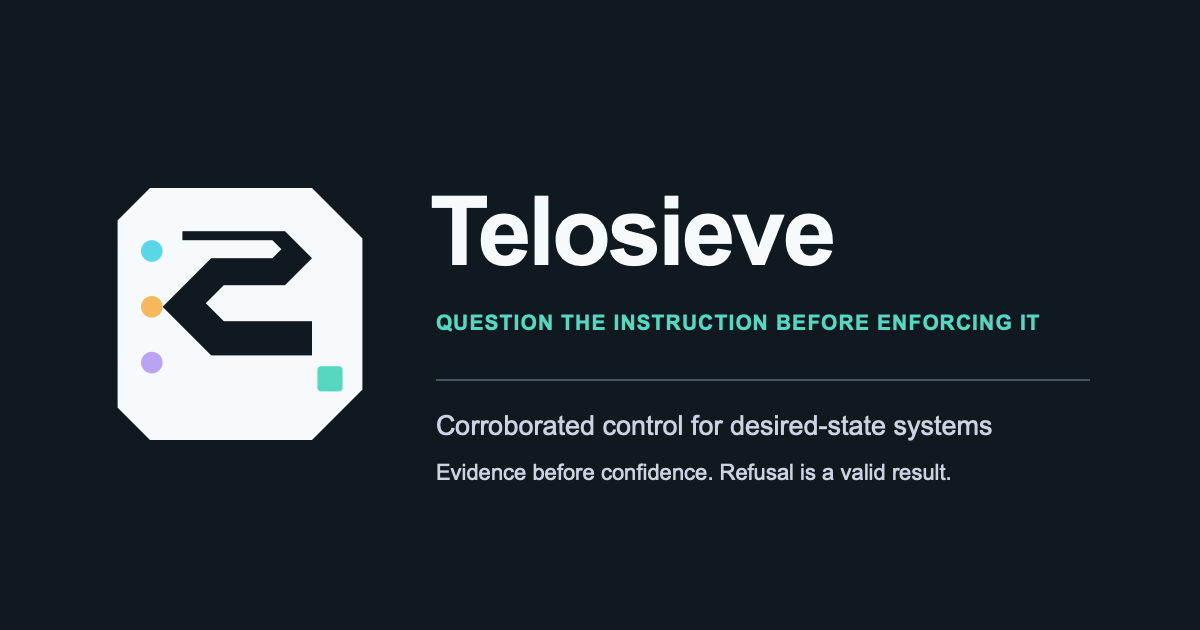
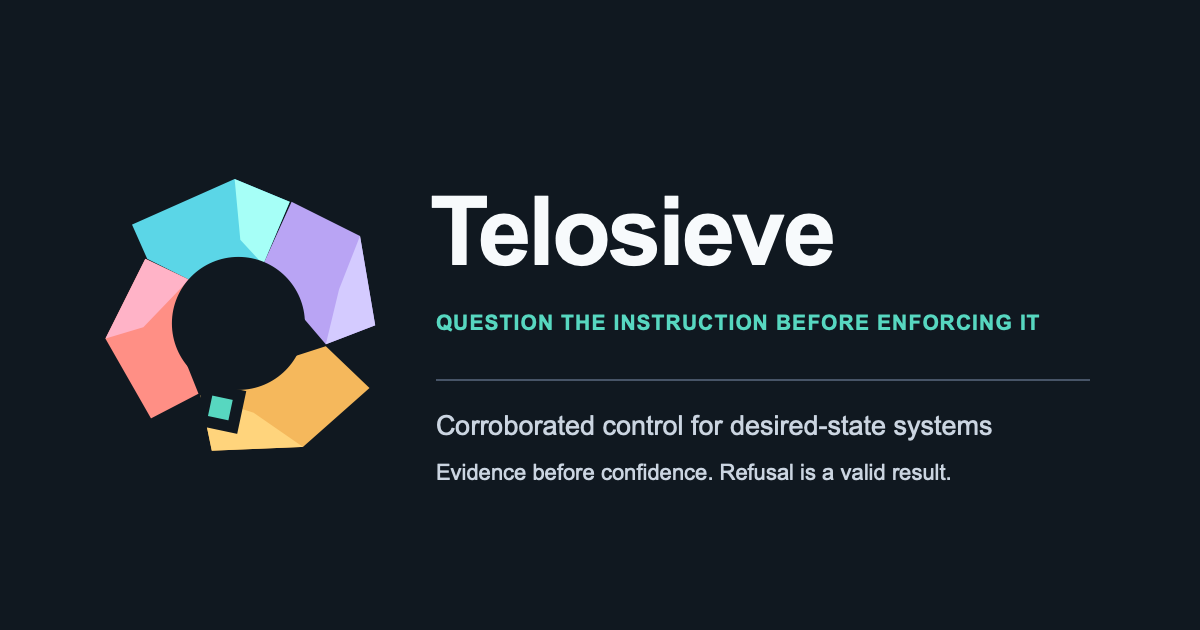
brand: adopt Fractured Oracle identity

Changed region(s): [[0.0925, 0.2714, 0.3083, 0.7238]]

diff --git a/scripts/validate-brand.py b/scripts/validate-brand.py
@@ -20,9 +20,9 @@ REQUIRED = (
     "source/telosieve-stacked.svg",
     "source/telosieve-monochrome.svg",
     "source/telosieve-reversed.svg",
-    "concepts/direction-a-cut-sieve.svg",
-    "concepts/direction-b-questioned-t.svg",
-    "concepts/direction-c-counterfactual-knot.svg",
+    "concepts/direction-a-fractured-oracle.svg",
+    "concepts/direction-b-mobius-question.svg",
+    "concepts/direction-c-counterfactual-crown.svg",
     "tokens/brand.tokens.json",
     "tokens/brand.css",
     "templates/release-card.svg",
@@ -87,7 +87,7 @@ def main() -> int:
         errors.append(result.stdout.strip() or result.stderr.strip() or "brand asset build check failed")
 
     tokens = json.loads((BRAND / "tokens/brand.tokens.json").read_text(encoding="utf-8"))
-    if tokens.get("schema_version") != "telosieve.brand-tokens/v1" or tokens.get("brand_version") != "3.0.0":
+    if tokens.get("schema_version") != "telosieve.brand-tokens/v1" or tokens.get("brand_version") != "4.0.0":
         errors.append("brand token version mismatch")
     expected_states = {"verified", "refused", "warning", "unknown"}
     if not expected_states.issubset(tokens.get("colour", {})):
@@ -95,9 +95,9 @@ def main() -> int:
 
     identity = (ROOT / "docs/BRAND_IDENTITY.md").read_text(encoding="utf-8")
     for phrase in (
-        "Brand version: `3.0.0`",
+        "Brand version: `4.0.0`",
         "Product maturity is not brand identity",
-        "| A: cut-sieve glyph",
+        "| A: Fractured Oracle",
         "Colour never carries state alone",
         "Remaining human gates",
         "not evidence of safety",
@@ -132,7 +132,7 @@ def main() -> int:
     if errors:
         return 1
     print(result.stdout.strip())
-    print(f"brand-validation: passed version=3.0.0 permanent_identity=true maturity_refusals={len(mutation_cases)}")
+    print(f"brand-validation: passed version=4.0.0 permanent_identity=true maturity_refusals={len(mutation_cases)}")
     return 0
 
 

diff --git a/scripts/build-private-bundle.py b/scripts/build-private-bundle.py
@@ -20,9 +20,9 @@ BRAND_FILES = [
     "assets/brand/source/telosieve-stacked.svg",
     "assets/brand/source/telosieve-monochrome.svg",
     "assets/brand/source/telosieve-reversed.svg",
-    "assets/brand/concepts/direction-a-cut-sieve.svg",
-    "assets/brand/concepts/direction-b-questioned-t.svg",
-    "assets/brand/concepts/direction-c-counterfactual-knot.svg",
+    "assets/brand/concepts/direction-a-fractured-oracle.svg",
+    "assets/brand/concepts/direction-b-mobius-question.svg",
+    "assets/brand/concepts/direction-c-counterfactual-crown.svg",
     "assets/brand/tokens/brand.tokens.json",
     "assets/brand/tokens/brand.css",
     "assets/brand/templates/release-card.svg",

diff --git a/scripts/build-brand-assets.py b/scripts/build-brand-assets.py
@@ -131,7 +131,7 @@ def manifest_for(export_root: Path) -> dict:
             "allowed_use": "Telosieve product, documentation, release, and social communication",
             "export_command": f"python3 scripts/build-brand-assets.py --rebuild ({EXPORTS[relative][0]} -> {relative})",
         })
-    return {"schema_version": "telosieve.brand-assets/v1", "brand_version": "3.0.0", "entries": entries}
+    return {"schema_version": "telosieve.brand-assets/v1", "brand_version": "4.0.0", "entries": entries}
 
 
 def build(directory: Path) -> dict:

diff --git a/docs/BRAND_IDENTITY.md b/docs/BRAND_IDENTITY.md
@@ -1,12 +1,12 @@
 # Telosieve Brand Identity
 
-Brand version: `3.0.0`
+Brand version: `4.0.0`
 
 Status: approved as Telosieve's enduring product identity on 2026-08-08 and corrected on the same date to remove release-maturity coupling. This identity communicates the product's purpose and mechanism; it is not evidence of safety, independent validation, legal name clearance, production readiness, or current release authorization.
 
 ## Product maturity is not brand identity
 
-Telosieve has one product identity across research, evaluation, release-candidate, and any future production-grade stages. The name, cut-sieve mark, brand version, purpose, principles, personality, tagline, colour, typography, and canonical product templates are maturity-neutral. They are designed for the intended durable product, not as temporary evaluation packaging.
+Telosieve has one product identity across research, evaluation, release-candidate, and any future production-grade stages. The name, Fractured Oracle mark, brand version, purpose, principles, personality, tagline, colour, typography, and canonical product templates are maturity-neutral. They are designed for the intended durable product, not as temporary evaluation packaging.
 
 Current maturity is a separate, replaceable messaging overlay. The overlay states release channel, read-only or actuation scope, support posture, evidence maturity, production authorization, and independent-validation status. Changing those facts must not require redrawing the mark, renaming the product, changing the brand version, or replacing the core tagline. The current overlay is `assets/brand/templates/evaluation-overlay.svg`; it is not part of any canonical logo.
 
@@ -62,15 +62,15 @@ Three genuinely different directions are retained under `assets/brand/concepts/`
 
 | Direction | Mechanism | Strength | Risk | Result |
 |---|---|---|---|---|
-| A: cut-sieve glyph | a chamfered field contains an angular S inspection channel, three circular apertures, and one square result | compact, ownable silhouette; strong monochrome reversal; reads as both sieve and questioned instruction | can suggest a processor tile, which is acceptable for the infrastructure category | selected |
-| B: questioned T monogram | three evidence blades interrupt a monumental T and resolve at a square base | immediate initial and strong editorial presence | too static and corporate; the evidence semantics become decoration | not selected |
-| C: counterfactual knot | three angular ribbons turn around an open centre without collapsing provenance | energetic, distinctive, and visibly multi-source | resembles routing and is too complex below 24 pixels | not selected |
+| A: Fractured Oracle | four crystalline evidence planes orbit an exact circular aperture, with one displaced square result | expressive, ownable silhouette; tension between fractured evidence and geometric calm; strong colour and monochrome forms | can suggest a broken ring without the supporting product context | selected |
+| B: Möbius Question | two interwoven ribbons turn an instruction back through its own evidence | kinetic, intellectually distinctive, and visibly recursive | complex crossings lose clarity at favicon size and can suggest generic data flow | not selected |
+| C: Counterfactual Crown | four asymmetric hypothesis planes surround a bounded void and displaced answer | elegant, editorial, and visibly multi-hypothesis | petal-like silhouette can read as botanical | not selected |
 
-The brand `3.0.0` review used a common light field and compared three newly drawn directions at equal size before their names and rationale were considered. Scoring dimensions were mechanism fidelity, silhouette, claim safety, category fit, distinctiveness, monochrome behaviour, and recognition at 16, 24, and 32 pixels. Direction A scored highest because the chamfered silhouette and angular S channel remain recognisable without colour, the circular apertures stay distinct from the square result, and the mark avoids a shield, lock, tick, robot, eye, or automatic-remediation metaphor. This was one project-controlled review, not an external comprehension study or trademark opinion.
+The brand `4.0.0` review compared three newly drawn artistic directions at equal size, then refined the owner-selected Fractured Oracle twice. The literal question-mark aperture was rejected, as was an uncontrolled jagged fault line. The approved centre is an exact circle: the surrounding planes carry the fracture while the aperture remains deliberately calm. Scoring dimensions were mechanism fidelity, silhouette, claim safety, category fit, distinctiveness, monochrome behaviour, and recognition at 16, 24, and 32 pixels. Direction A was owner-selected because its fractured outer mass remains expressive without becoming security iconography, while its aperture and displaced square retain a legible result boundary. The mark avoids a shield, lock, tick, robot, eye, face, punctuation symbol, or automatic-remediation metaphor. This was an owner-led project review, not an external comprehension study or trademark opinion.
 
 ## Logo system
 
-The selected mark is a cut-sieve glyph rather than a protocol diagram. Its chamfered outer field gives the product a stable app, repository, print, and favicon silhouette. An angular negative-space S doubles as a sieve channel and a questioned instruction moving in two directions. Three circular apertures encode separate evidence without drawing literal network paths; the differently shaped square is the bounded result. The field is not a shield, the channel is not an automatic route, and the square is deliberately not a tick.
+The selected Fractured Oracle mark is an abstract product symbol rather than a protocol diagram. Four separately coloured crystalline planes represent evidence that can disagree, split, or survive challenge without collapsing provenance. Their irregular outer silhouette supplies motion and productive tension. An exact circular aperture creates a controlled negative-space centre and prevents the fracture from reading as accidental damage. The displaced square is the bounded result: related to the evidence, but not falsely presented as its inevitable centre. The circle is not an eye or question mark, the outer mass is not a shield, and the square is deliberately not a tick.
 
 Canonical files:
 
@@ -83,7 +83,7 @@ Canonical files:
 - `telosieve-monochrome.svg`: one-colour print and terminal-adjacent use;
 - `telosieve-reversed.svg`: dark-field symbol.
 
-Clear space is at least one aperture diameter around every mark. Minimum sizes are 16 pixels for the small symbol, 32 pixels for the primary symbol, 180 pixels for the horizontal lockup, and 220 pixels for the stacked lockup. Use the small symbol below 32 pixels, the dark-field favicon on browser/OS surfaces, and the reversed dark-field avatar where the surrounding theme is unknown. Do not rotate, skew, add shadows, round away the chamfers, recolour individual apertures outside the token system, fill the S channel, convert the result square to a tick, place copy inside the clear space, or use the colour mark where monochrome or forced-colour output is required.
+Clear space is at least one result-square width around every mark. Minimum sizes are 16 pixels for the small symbol, 32 pixels for the primary symbol, 180 pixels for the horizontal lockup, and 220 pixels for the stacked lockup. Use the small symbol below 32 pixels, the dark-field favicon on browser/OS surfaces, and the reversed dark-field avatar where the surrounding theme is unknown. Do not rotate or skew the complete mark, smooth the crystalline outer planes, distort the circular aperture, reconnect the planes into a continuous ring, move the result square into the aperture, add shadows or gradients, recolour individual planes outside the token system, convert the result square to a tick, place copy inside the clear space, or use the colour mark where monochrome or forced-colour output is required.
 
 ## Colour and state
 
@@ -130,11 +130,11 @@ The builder renders every PNG twice and requires byte identity, exact dimensions
 
 The repository owner is product and brand owner. Engineering owns deterministic assets and integration consistency; security owns prohibited protection claims; research owns evidence and novelty wording; accessibility owns contrast and non-colour semantics; legal clearance remains external. A future contributor may fill more than one role, but every role must be explicitly reviewed at a release gate.
 
-Brand sources, tokens, and manifest use their own `3.0.0` version. Protocol and release-maturity changes do not silently change the brand. Material mark, palette, typography, promise, or category changes require a reviewed milestone, migration note, regenerated exports, new manifest, and archive of released assets. Security or cultural-symbol findings may trigger immediate withdrawal, followed by documented replacement rather than silent file substitution.
+Brand sources, tokens, and manifest use their own `4.0.0` version. Protocol and release-maturity changes do not silently change the brand. Material mark, palette, typography, promise, or category changes require a reviewed milestone, migration note, regenerated exports, new manifest, and archive of released assets. Security or cultural-symbol findings may trigger immediate withdrawal, followed by documented replacement rather than silent file substitution.
 
 ### Migration from the maturity-coupled label
 
-The revoked `v0.2.0-rc.2` record preserves the earlier `1.0.0-evaluation` label and first aperture geometry. Brand `1.0.0` separated maturity from identity. Brand `2.0.0`, retained in `assets/brand/archive/2.0.0/`, replaced that diagram with the faceted convergence gate used by the signed `v0.2.0-rc.3` candidate. Brand `3.0.0` responds to the owner's distinctiveness review by replacing the remaining process-diagram aesthetic with the compact cut-sieve glyph while retaining the name, tagline, palette, typography, semantic states, and durable asset paths. Consumers must refresh every logo and raster export rather than mixing generations; use `evaluation-overlay.svg` only when current maturity disclosure is required. This post-candidate identity change belongs to a future candidate and does not alter or silently relabel the signed rc.3 bytes. Do not infer a production promotion from any identity correction.
+The revoked `v0.2.0-rc.2` record preserves the earlier `1.0.0-evaluation` label and first aperture geometry. Brand `1.0.0` separated maturity from identity. Brand `2.0.0`, retained in `assets/brand/archive/2.0.0/`, replaced that diagram with the faceted convergence gate used by the signed `v0.2.0-rc.3` candidate. Brand `3.0.0`, retained by manifest digest in `assets/brand/archive/3.0.0/`, replaced the process-diagram aesthetic with a compact cut-sieve glyph. Brand `4.0.0` responds to the owner's artistic distinctiveness review with the Fractured Oracle while retaining the name, tagline, palette, typography, semantic states, and durable asset paths. Consumers must refresh every logo and raster export rather than mixing generations; use `evaluation-overlay.svg` only when current maturity disclosure is required. This post-candidate identity change belongs to a future candidate and does not alter or silently relabel the signed rc.3 bytes. Do not infer a production promotion from any identity correction.
 
 ## Remaining human gates
 

diff --git a/docs/EVALUATION_PRODUCTISATION_DECISION.md b/docs/EVALUATION_PRODUCTISATION_DECISION.md
@@ -4,9 +4,9 @@ Date: 2026-08-08
 
 ## Decision
 
-The owner approves Telosieve as a product with an enduring identity independent of research, evaluation, release-candidate, production, and support maturity. Brand `2.0.0` established that permanent identity; the governed post-candidate distinctiveness review advances current source to brand `3.0.0` without changing the product platform or relabelling signed rc.3 bytes. This supersedes the 2026-07-29 productisation prohibition for the product and public-source presentation lanes. It does not supersede production, actuation, independent-assessment, legal-clearance, hosted-CI, package-publication, or safety-claim gates.
+The owner approves Telosieve as a product with an enduring identity independent of research, evaluation, release-candidate, production, and support maturity. Brand `2.0.0` established that permanent identity; successive governed distinctiveness reviews advanced current source through brand `3.0.0` to the owner-selected Fractured Oracle identity in brand `4.0.0`, without changing the product platform or relabelling signed rc.3 bytes. This supersedes the 2026-07-29 productisation prohibition for the product and public-source presentation lanes. It does not supersede production, actuation, independent-assessment, legal-clearance, hosted-CI, package-publication, or safety-claim gates.
 
-The permanent product layer comprises the Telosieve name, convergence-gate mark, `Question the instruction before enforcing it` tagline, corroborated desired-state control category, brand platform, visual system, and canonical assets. Current read-only evaluation status is a separately versioned release overlay and must not be encoded into the canonical mark, brand version, core tagline, or design tokens.
+The permanent product layer comprises the Telosieve name, Fractured Oracle mark, `Question the instruction before enforcing it` tagline, corroborated desired-state control category, brand platform, visual system, and canonical assets. Current read-only evaluation status is a separately versioned release overlay and must not be encoded into the canonical mark, brand version, core tagline, or design tokens.
 
 ## Supported product profile
 

diff --git a/docs/IMPLEMENTATION_PLAN.md b/docs/IMPLEMENTATION_PLAN.md
@@ -1108,3 +1108,25 @@ The record commit is deliberately newer than the immutable tagged candidate byte
 Evidence: [BRAND_IDENTITY](BRAND_IDENTITY.md), `assets/brand/archive/2.0.0/`,
 `assets/brand/source/`, `assets/brand/concepts/`,
 `scripts/build-brand-assets.py`, and `scripts/validate-brand.py`.
+
+## Post-M65 - Fractured Oracle brand migration
+
+- [x] Treat the owner's rejection of the cut-sieve mark as a material artistic
+  distinctiveness finding and compare three non-conservative directions at equal scale.
+- [x] Select Fractured Oracle, remove its literal question-mark treatment, reject
+  an uncontrolled jagged fault, and approve an exact circular aperture.
+- [x] Implement canonical symbol, small, favicon, horizontal, stacked,
+  monochrome, reversed, avatar, social-card, and release-card variants without
+  changing the wordmark, palette, tagline, or maturity boundary.
+- [x] Advance the governed identity to brand `4.0.0`, retain the superseded
+  `3.0.0` manifest digest, regenerate deterministic exports, and update package,
+  README, productisation, release, changelog, and brand governance surfaces.
+- [x] Keep signed `v0.2.0-rc.3` bytes and their archived brand identity immutable;
+  assign brand `4.0.0` to current source and a future candidate.
+- [ ] Obtain formal trademark/cultural review, multi-participant comprehension,
+  print proofing, and cross-platform optical comparison before claiming those
+  external brand assurances.
+
+Evidence: [BRAND_IDENTITY](BRAND_IDENTITY.md), `assets/brand/archive/3.0.0/`,
+`assets/brand/source/`, `assets/brand/concepts/`,
+`scripts/build-brand-assets.py`, and `scripts/validate-brand.py`.

diff --git a/README.md b/README.md
@@ -21,7 +21,7 @@ The candidate contribution is a provenance-separated protocol that can suspect t
 | Observation | Authenticated multi-domain quorum required in every supported mode | declared domains do not prove organisational independence |
 | Integrations | Kubernetes, OpenTofu, Redis, PostgreSQL, and HTTP/JSON | read-only qualification with documented environment limits |
 | Actuation | Transactional single-host reference actuator | reference semantics only, no production-system authority |
-| Brand | Current source identity `3.0.0` | signed rc.3 carries archived `2.0.0`; legal and external comprehension review remain separate gates |
+| Brand | Current source identity `4.0.0` | signed rc.3 carries archived `2.0.0`; legal and external comprehension review remain separate gates |
 | CI | `./scripts/ci-local.sh` | sole authoritative gate while the repository is private |
 
 Public source, production promotion, hosted CI, package publication, autonomous actuation, and stronger safety claims each remain separately governed. See [Release Strategy](docs/RELEASE.md) and [Public Opening Decision](docs/PUBLIC_OPENING_DECISION.md).

diff --git a/CHANGELOG.md b/CHANGELOG.md
@@ -4,6 +4,11 @@ All notable Telosieve changes are recorded here. Telosieve follows Semantic Vers
 
 ## Unreleased
 
+- Adopt brand `4.0.0`: the owner-selected Fractured Oracle mark uses four
+  crystalline evidence planes around an exact circular aperture and a displaced
+  bounded-result square across canonical, monochrome, reversed, and small assets.
+- Archive the superseded brand `3.0.0` manifest, retain all three compared artistic
+  directions, and regenerate deterministic favicon, avatar, and social exports.
 - Replace the process-diagram-like convergence mark with brand `3.0.0`: a
   compact cut-sieve glyph with an ownable S channel, evidence apertures, and
   bounded-result square across canonical, monochrome, reversed, and small assets.

diff --git a/docs/PRIVATE_BUNDLE.md b/docs/PRIVATE_BUNDLE.md
@@ -5,7 +5,7 @@ absolute locally validated Telosieve binary and a fixed allowlist of evaluation
 configuration, RBAC, lifecycle, diagnostics, policy, and operator documents.
 The allowlist includes the Apache-2.0 licence, security policy, change history,
 public-opening boundary, and current diligence record.
-It also carries the current enduring brand identity `3.0.0`, canonical SVG sources,
+It also carries the current enduring brand identity `4.0.0`, canonical SVG sources,
 tokens, templates, raster exports, provenance manifest, and validators so the
 candidate presentation remains bound to the exact handoff.
 Evaluation maturity is carried by a separate overlay and release copy rather

diff --git a/docs/RELEASE.md b/docs/RELEASE.md
@@ -331,7 +331,8 @@ still requires every approval and review listed in the private-repository policy
 
 The 2026-08-08 productisation decision approved enduring brand identity `2.0.0`;
 the governed post-candidate distinctiveness review advances current source to
-brand `3.0.0` while retaining the released `2.0.0` manifest.
+brand `4.0.0` while retaining the released `2.0.0` manifest and the superseded
+`3.0.0` manifest record.
 Evaluation and release-candidate status are separate maturity overlays rather
 than variants of the canonical product identity. The
 asset manifest, canonical SVGs, design tokens, channel templates, deterministic
